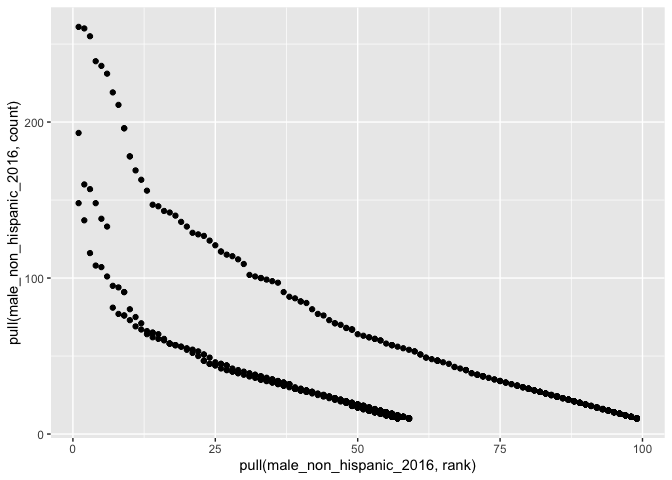
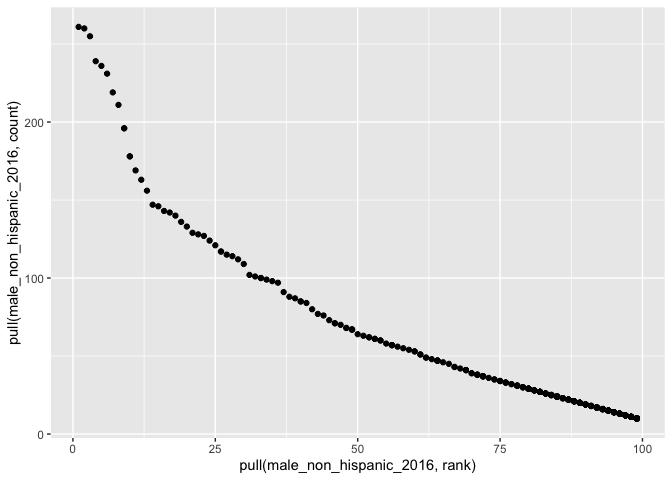
Final review of the hw2 and make several change of the scatter plot.

diff --git a/HW_2.md b/HW_2.md
@@ -169,6 +169,7 @@ of years is from 1947 to 2015. the key variables are “year” , “month” ,
 # Problem 3
 
 ``` r
+# Clean the data
 baby_data = read_csv("Popular_Baby_Names.csv") %>% 
   janitor::clean_names() %>% 
   distinct() %>% 
@@ -191,13 +192,15 @@ baby_data = read_csv("Popular_Baby_Names.csv") %>%
     ## ℹ Specify the column types or set `show_col_types = FALSE` to quiet this message.
 
 ``` r
+# produce a well-structured, reader-friendly table showing the rank in popularity of the name “Olivia” as a female baby name over time
 olivia_data = filter(baby_data, childs_first_name == "olivia") %>% 
   select(-gender, -count, -childs_first_name) %>% 
   pivot_wider(
     names_from = "year_of_birth",
     values_from = "rank"
   )
-  
+
+# Produce a well-structured, reader-friendly table showing the most popular name among male children over time  
 male_most_data = filter(baby_data, gender == "male", rank == "1")  %>% 
   select(-gender, -rank, -count) %>% 
   pivot_wider(
@@ -205,7 +208,9 @@ male_most_data = filter(baby_data, gender == "male", rank == "1")  %>%
     values_from = "childs_first_name"
   )
 
-male_non_hispanic_2016 = filter(baby_data, year_of_birth == "2016", gender =="male", ethnicity != "hispanic" )
+
+# Produce a scatter plot showing the number of children with a name (y axis) against the rank in popularity of that name (x axis).
+male_non_hispanic_2016 = filter(baby_data, year_of_birth == "2016", gender =="male", ethnicity == "white non hispanic" )
 ggplot(male_non_hispanic_2016, aes(x = pull(male_non_hispanic_2016, rank), y = pull(male_non_hispanic_2016, count))) + geom_point()
 ```
 
